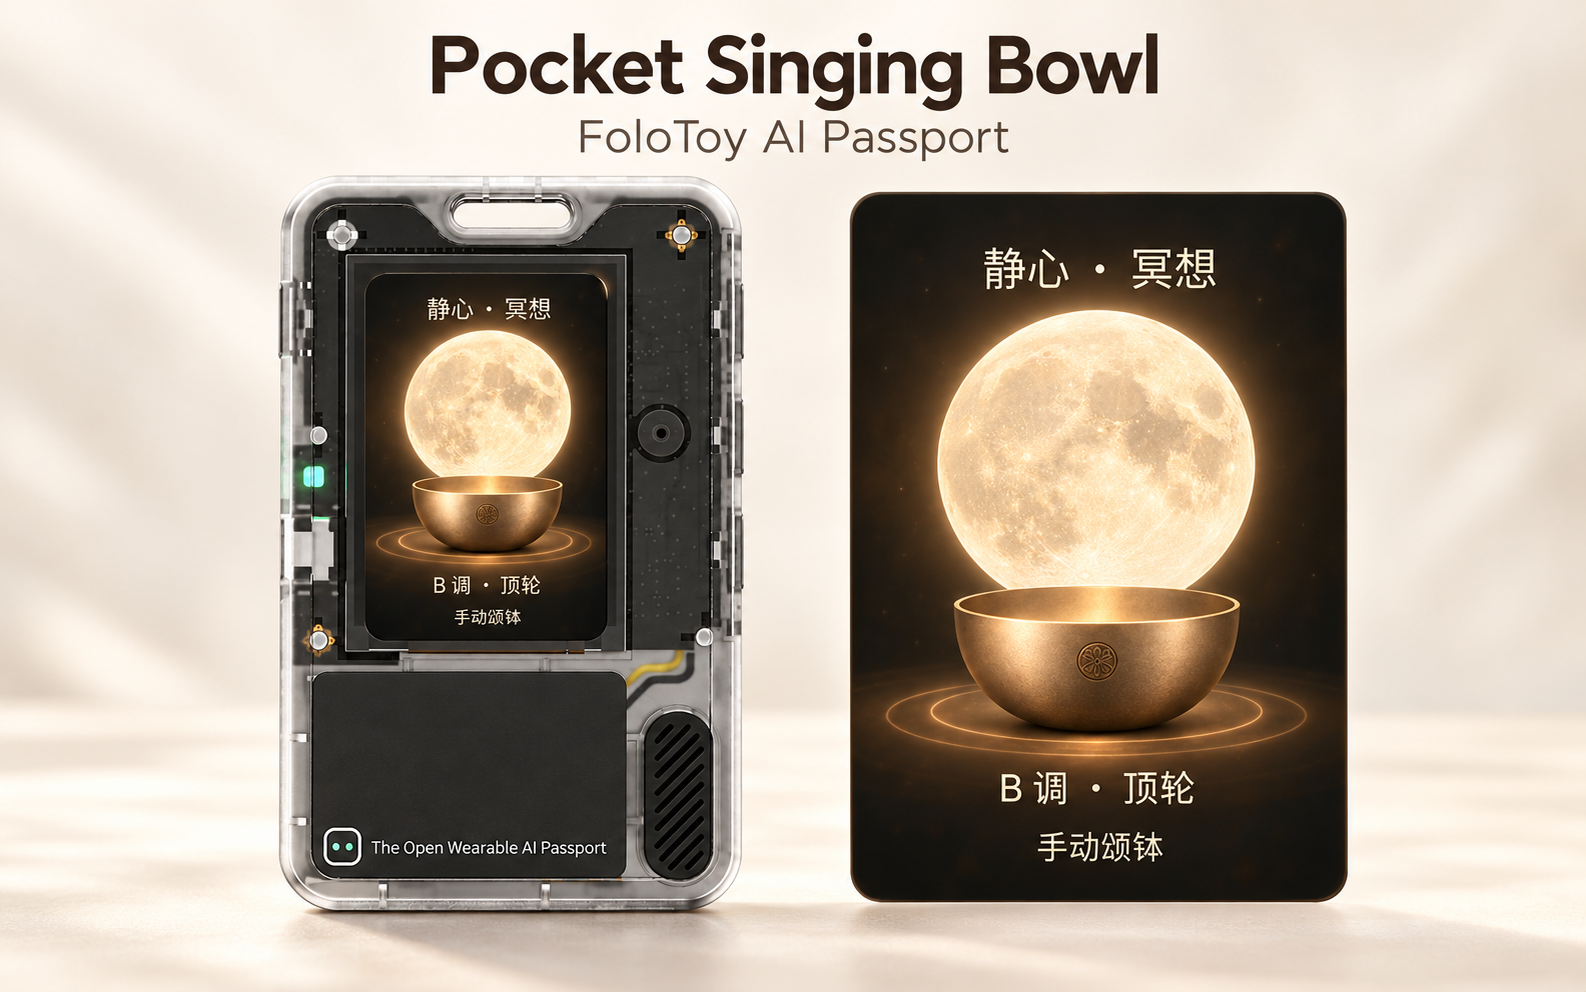
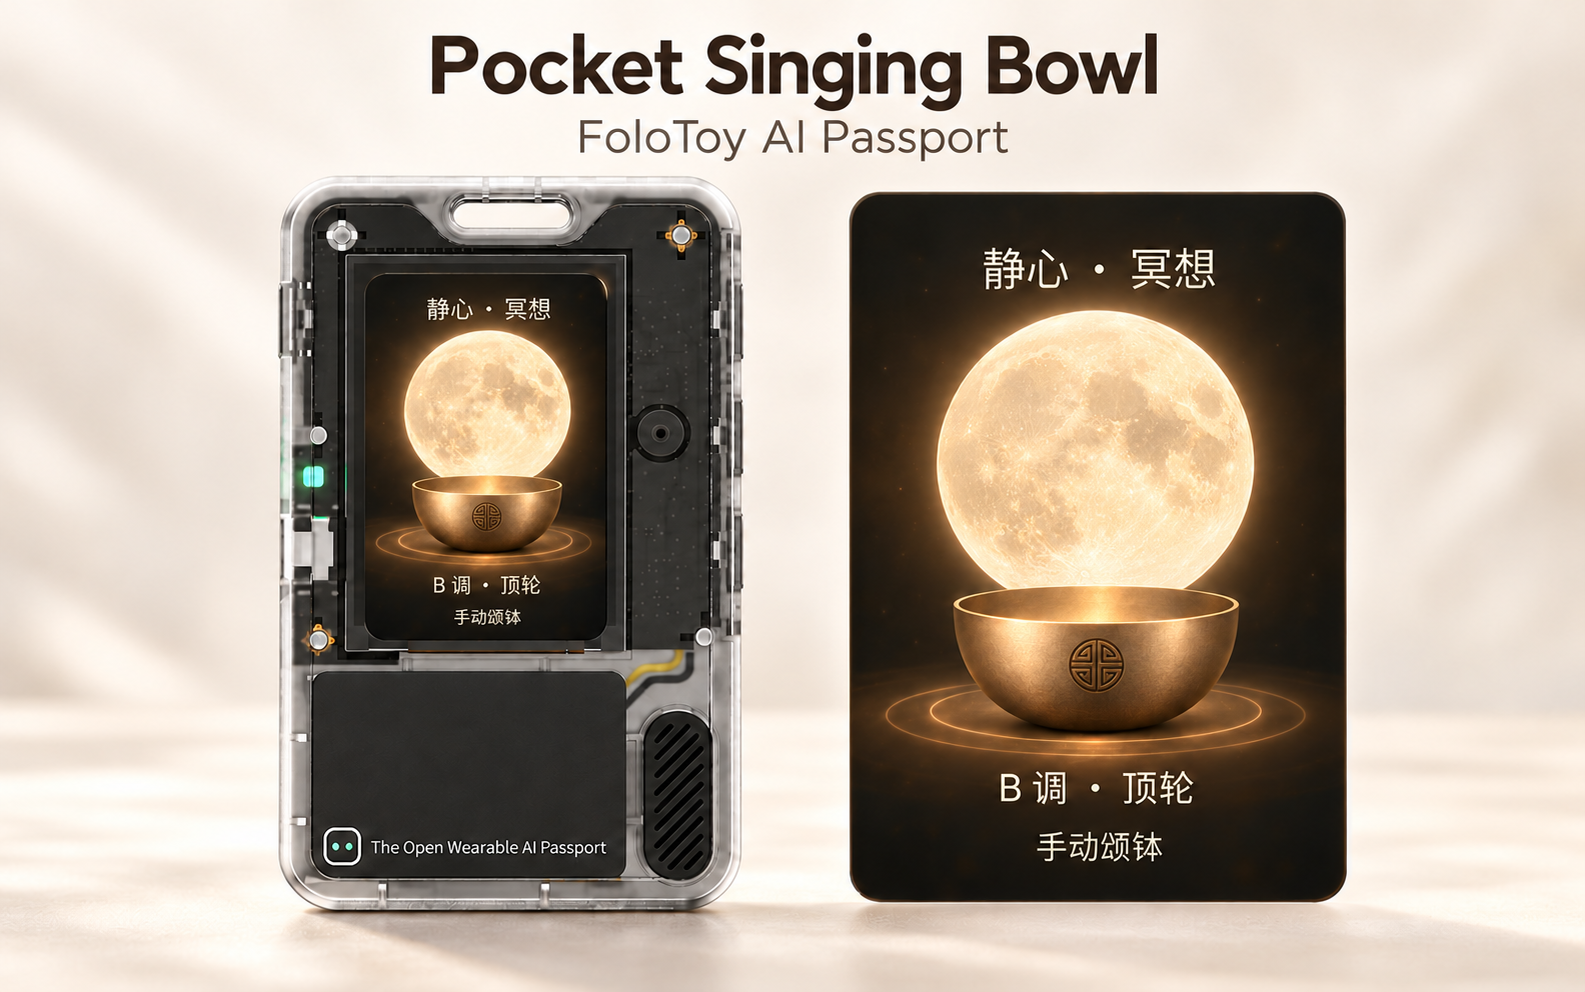
docs: add header badges, restore bowl emblem and explain chakra themes

diff --git a/README.md b/README.md
@@ -1,10 +1,18 @@
 English | [简体中文](docs/i18n/zh-CN/README.md)
 
-# Pocket Singing Bowl
+<h1 align="center">Pocket Singing Bowl</h1>
 
-**A little moon, a golden bowl, and a quiet moment in your pocket.**
+<p align="center">A little moon. A golden bowl. A quiet moment in your pocket.</p>
 
-An offline singing-bowl experience for [FoloToy AI Passport](https://github.com/FoloToy/ai-passport), inspired by Himalayan singing bowls from Nepal. It brings seven original synthesized tones into a simple, button-operated companion for everyday relaxation, focus, and meditation.
+<p align="center">
+  <a href="https://github.com/kyle-zheng/pocket-singing-bowl/releases/tag/v0.1.8"><img src="assets/badges/version.svg" alt="Version: v0.1.8"></a>
+  <a href="https://github.com/kyle-zheng/pocket-singing-bowl/blob/main/docs/USER_GUIDE.md"><img src="assets/badges/platform.svg" alt="Platform: FoloToy AI Passport"></a>
+  <a href="https://github.com/kyle-zheng/pocket-singing-bowl/blob/main/docs/USER_GUIDE.md"><img src="assets/badges/sound.svg" alt="Sound: 7 tones"></a>
+  <a href="https://github.com/kyle-zheng/pocket-singing-bowl/blob/main/docs/USER_GUIDE.md"><img src="assets/badges/mode.svg" alt="Mode: Offline"></a>
+  <a href="https://github.com/kyle-zheng/pocket-singing-bowl/blob/main/LICENSE"><img src="assets/badges/license.svg" alt="License: MIT"></a>
+</p>
+
+An offline singing-bowl experience for [FoloToy AI Passport](https://github.com/FoloToy/ai-passport), inspired by Himalayan singing bowls from Nepal. I paired seven original synthesized tones with the seven chakras, creating selectable listening themes for everyday relaxation, focus, and meditation. Simple button controls make it easy to start listening.
 
 <p align="center"><img src="assets/images/pocket-singing-bowl-device-preview.png" alt="Pocket Singing Bowl shown on FoloToy AI Passport, with a closer view of its full-moon interface" width="900"></p>
 
@@ -23,7 +31,21 @@ An offline singing-bowl experience for [FoloToy AI Passport](https://github.com/
 - Optional sleep after ten idle minutes, with a gentle screen fade; disabled by default.
 - Works entirely offline and remembers your settings.
 
-The current firmware interface is in Simplified Chinese. Project documentation defaults to English, with a Simplified Chinese translation available. The artwork shown above is AI-generated; its circular bowl mark is illustrative, not a verified official logo or endorsement. The sounds are original synthesized timbres rather than recordings of physical bowls. Theme and chakra names describe the design; they do not claim medical effects.
+The current firmware interface is in Simplified Chinese. Project documentation defaults to English, with a Simplified Chinese translation available. The artwork shown above is AI-generated; the bowls retain the circular full-moon emblem used in my original design. The sounds are original synthesized timbres rather than recordings of physical bowls. Theme and chakra names describe the design; they do not claim medical effects.
+
+## Seven notes, seven chakras
+
+For Pocket Singing Bowl, I use the following note-to-chakra mapping, with a listening theme for each note:
+
+| Note | Chakra | Listening theme |
+| --- | --- | --- |
+| C | Root | Grounding & Relaxation |
+| D | Sacral | Feeling & Flow |
+| E | Solar plexus | Confidence & Action |
+| F | Heart | Acceptance & Care |
+| G | Throat | Expression & Listening |
+| A | Third eye | Focus & Awareness |
+| B | Crown | Stillness & Meditation |
 
 ## Start listening
 
@@ -62,7 +84,7 @@ Saved preferences take precedence on an ordinary restart. A full merged-image re
 
 ## Development status
 
-Version 0.1.8 has been built, checked, and flashed to the device during development. It changes the defaults to B/crown and 50% volume while retaining the v0.1.7 audio tuning. The creator reported that the previous tuning eliminated the crackling in their listening test. This is practical listening feedback, not an exhaustive acoustic or battery-life measurement.
+I have flashed v0.1.8 to FoloToy AI Passport and tried it myself. It starts with B/crown at 50% volume and keeps the earlier sound and mixing improvements. After the tuning, I no longer hear the crackling from my earlier listening sessions.
 
 ## Credits
 

diff --git a/docs/i18n/zh-CN/README.md b/docs/i18n/zh-CN/README.md
@@ -1,10 +1,18 @@
 [English](../../../README.md) | 简体中文
 
-# 口袋颂钵
+<h1 align="center">口袋颂钵</h1>
 
-**一轮满月，一只金色的钵，把片刻宁静放进口袋。**
+<p align="center">一轮满月，一只金色的钵，把片刻宁静放进口袋。</p>
 
-口袋颂钵（Pocket Singing Bowl）是为 [FoloToy AI Passport](https://github.com/FoloToy/ai-passport) 制作的离线颂钵应用，灵感来自尼泊尔喜马拉雅颂钵。七种原创合成音调，搭配简单的按键操作，为日常放松、专注和冥想提供一个随身的小入口。
+<p align="center">
+  <a href="https://github.com/kyle-zheng/pocket-singing-bowl/releases/tag/v0.1.8"><img src="../../../assets/badges/version.svg" alt="Version: v0.1.8"></a>
+  <a href="https://github.com/kyle-zheng/pocket-singing-bowl/blob/main/docs/USER_GUIDE.md"><img src="../../../assets/badges/platform.svg" alt="Platform: FoloToy AI Passport"></a>
+  <a href="https://github.com/kyle-zheng/pocket-singing-bowl/blob/main/docs/USER_GUIDE.md"><img src="../../../assets/badges/sound.svg" alt="Sound: 7 tones"></a>
+  <a href="https://github.com/kyle-zheng/pocket-singing-bowl/blob/main/docs/USER_GUIDE.md"><img src="../../../assets/badges/mode.svg" alt="Mode: Offline"></a>
+  <a href="https://github.com/kyle-zheng/pocket-singing-bowl/blob/main/LICENSE"><img src="../../../assets/badges/license.svg" alt="License: MIT"></a>
+</p>
+
+口袋颂钵（Pocket Singing Bowl）是为 [FoloToy AI Passport](https://github.com/FoloToy/ai-passport) 制作的离线颂钵应用，灵感来自尼泊尔喜马拉雅颂钵。我将七种原创合成音调对应七脉轮，做成七个可切换的聆听主题。搭配简单的按键操作，为日常放松、专注和冥想提供一个随身的小入口。
 
 <p align="center"><img src="../../../assets/images/pocket-singing-bowl-device-preview.png" alt="FoloToy AI Passport 机身内展示口袋颂钵界面，旁边展示满月界面细节" width="900"></p>
 
@@ -23,7 +31,21 @@
 - 可选开启闲置十分钟后自动休眠，并以屏幕渐暗过渡；默认关闭。
 - 全程离线，设置会保存。
 
-当前设备界面为简体中文；项目文档默认英文，并提供简体中文入口。上图为 AI 生成的示意图，钵面圆形图案不代表已核实的官方标志或品牌背书。声音为原创合成音色，并非实体颂钵录音；主题和脉轮名称用于组织聆听体验，不宣称医学疗效。
+当前设备界面为简体中文；项目文档默认英文，并提供简体中文入口。上图为 AI 生成的示意图，钵面保留最初设计采用的满月钵圆形图案。声音为原创合成音色，并非实体颂钵录音；主题和脉轮名称用于组织聆听体验，不宣称医学疗效。
+
+## 七种音调与七脉轮
+
+我在口袋颂钵中采用以下对应关系，每个音调都有一个聆听主题：
+
+| 音调 | 对应脉轮 | 聆听主题 |
+| --- | --- | --- |
+| C 调 | 海底轮 | 安定 · 放松 |
+| D 调 | 脐轮 | 感受 · 流动 |
+| E 调 | 太阳轮 | 自信 · 行动 |
+| F 调 | 心轮 | 接纳 · 关怀 |
+| G 调 | 喉轮 | 表达 · 倾听 |
+| A 调 | 眉心轮 | 专注 · 觉察 |
+| B 调 | 顶轮 | 静心 · 冥想 |
 
 ## 开始聆听
 
@@ -62,7 +84,7 @@
 
 ## 开发状态
 
-v0.1.8 已在开发过程中完成编译、校验和设备刷写。它将首次使用的默认音调改为 B 调顶轮、默认音量改为 50%，并保留 v0.1.7 的音频优化。创作者反馈，此前的调音已消除其试听中的爆鸣杂音；这属于实际试听反馈，不等同于完整的声学或续航测量。
+我已经在 FoloToy AI Passport 上刷入并试听了 v0.1.8。这版默认使用 B 调顶轮、50% 音量，并保留此前的音色与混音优化；调音后，我在试听中已听不到之前的爆鸣杂音。
 
 ## 致谢
 

diff --git a/docs/ASSETS.md b/docs/ASSETS.md
@@ -10,13 +10,13 @@ Dependency sources and exact resolved versions are recorded in `dependencies.loc
 
 ## Artwork
 
-`assets/images/moon-bowl-source.png` was generated with OpenAI image generation on October 17, 2026, from the creator's approved moon-and-golden-bowl concept. The circular bowl mark is illustrative and has not been verified as an official logo. No brand endorsement is claimed.
+`assets/images/moon-bowl-source.png` was generated with OpenAI image generation on October 17, 2026, from my moon-and-golden-bowl concept. It uses the circular, four-quadrant full-moon bowl emblem from my original design; it does not imply a brand affiliation.
 
 `moon-bowl-240.png` and `moon_background.c` are generated 240×320 RGB565 derivatives used on the device. The embedded image occupies 153,600 bytes. No third-party photograph is used in this artwork.
 
 ## Device illustration
 
-`assets/images/pocket-singing-bowl-device-preview.png` is a finished AI-generated README illustration combining the appearance of FoloToy AI Passport with the Pocket Singing Bowl interface. It is based on the [simulator body reference](https://apsimulator.folotoy.cn/assets/ai-passport-shell-reference.png) and a native rendering of the current B/crown screen. The full-device presentation was informed by the [PassportSim example](https://github.com/BlackHole1/passportsim). It is an illustration, not a photograph or a captured hardware session. Created with OpenAI image generation on October 19, 2026.
+`assets/images/pocket-singing-bowl-device-preview.png` is a finished AI-generated README illustration combining the appearance of FoloToy AI Passport with the Pocket Singing Bowl interface. It is based on the [simulator body reference](https://apsimulator.folotoy.cn/assets/ai-passport-shell-reference.png) and a native rendering of the current B/crown screen. The full-device presentation was informed by the [PassportSim example](https://github.com/BlackHole1/passportsim). It is an illustration, not a photograph or a captured hardware session. Created with OpenAI image generation on October 19, 2026. The two bowl emblems were subsequently corrected to match the geometric four-quadrant mark in the original artwork, replacing an unintended floral motif.
 
 ## Sound
 

diff --git a/docs/i18n/zh-CN/ASSETS.md b/docs/i18n/zh-CN/ASSETS.md
@@ -10,13 +10,13 @@
 
 ## 图片
 
-`assets/images/moon-bowl-source.png` 根据创作者确认的满月与金色颂钵概念，于 2026 年 10 月 17 日使用 OpenAI 图像生成工具创作。钵面圆形图案为示意，未核实为官方标志，也不代表品牌背书。
+`assets/images/moon-bowl-source.png` 根据我的满月与金色颂钵设计，于 2026 年 10 月 17 日使用 OpenAI 图像生成工具创作。钵面沿用最初设计中的四分对称满月钵圆形图案，不代表品牌关联。
 
 `moon-bowl-240.png` 和 `moon_background.c` 是设备使用的 240×320 RGB565 衍生资源，嵌入图片占用 153,600 字节。该作品未使用第三方摄影照片。
 
 ## 设备示意图
 
-`assets/images/pocket-singing-bowl-device-preview.png` 为完整的 AI 生成首页示意图，将 FoloToy AI Passport 的机身外观与口袋颂钵界面结合。参考了[模拟器机身素材](https://apsimulator.folotoy.cn/assets/ai-passport-shell-reference.png)和当前 B 调顶轮页面的原生渲染；完整机身的展示方式参考 [PassportSim 项目](https://github.com/BlackHole1/passportsim)。该图是示意图，不是照片或实机运行截图，于 2026 年 10 月 19 日使用 OpenAI 图像生成工具创作。
+`assets/images/pocket-singing-bowl-device-preview.png` 为完整的 AI 生成首页示意图，将 FoloToy AI Passport 的机身外观与口袋颂钵界面结合。参考了[模拟器机身素材](https://apsimulator.folotoy.cn/assets/ai-passport-shell-reference.png)和当前 B 调顶轮页面的原生渲染；完整机身的展示方式参考 [PassportSim 项目](https://github.com/BlackHole1/passportsim)。该图是示意图，不是照片或实机运行截图，于 2026 年 10 月 19 日使用 OpenAI 图像生成工具创作，后将两只钵上误生成的花纹修正为原始设计中的四分对称圆形图案。
 
 ## 声音
 

diff --git a/docs/RELEASE_NOTES.md b/docs/RELEASE_NOTES.md
@@ -23,6 +23,6 @@ The packaged full image is the previously built and flashed v0.1.8 image. Its SH
[1 lines of base64/hex data omitted]
 ```
 
-The original development validation passed the firmware build, host checks, merged-image verification, and flash verification. Startup logs confirmed B/crown and 50% volume. The creator reported that the preceding v0.1.7 tuning eliminated the crackling in their listening test. Exhaustive acoustic testing and whole-device sleep-current measurements remain unperformed.
+The original development validation passed the firmware build, host checks, merged-image verification, and flash verification. Startup logs confirmed B/crown and 50% volume. After the v0.1.7 tuning, I no longer heard the earlier crackling during my listening tests. I have not carried out exhaustive acoustic or whole-device sleep-current measurements.
 
 This GitHub publication organizes source files, bilingual documentation, and downloads; it does not introduce a new firmware version or modify the v0.1.8 runtime.

diff --git a/AGENTS.md b/AGENTS.md
@@ -4,6 +4,7 @@ English | [简体中文](docs/i18n/zh-CN/AGENTS.md)
 
 This repository publishes Pocket Singing Bowl v0.1.8 for FoloToy AI Passport.
 
+- Write personal development and listening experiences in the first person; do not refer to the project owner as "the creator" or "the author". Keep the seven-note/chakra mapping consistent with the implemented themes.
 - Use English at default documentation paths and for repository metadata, commit messages, and release titles. Maintain Simplified Chinese translations under `docs/i18n/zh-CN/`, with reciprocal language links. Keep both versions factually aligned. Existing Simplified Chinese device labels are part of the current firmware interface.
 - Use the complete hardware name **FoloToy AI Passport** in reader-facing prose. Preserve existing technical identifiers and build filenames.
 - Keep hardware interfaces in `components/bsp/` and application behavior in `main/moon_*`.

diff --git a/docs/i18n/zh-CN/RELEASE_NOTES.md b/docs/i18n/zh-CN/RELEASE_NOTES.md
@@ -23,6 +23,6 @@
[1 lines of base64/hex data omitted]
 ```
 
-开发过程中已通过固件构建、主机测试、合并镜像校验和刷写校验；启动日志确认 B 调顶轮、50% 音量。创作者反馈，v0.1.7 调音已消除其试听中的爆鸣杂音；完整声学测试与整机休眠电流测量仍未完成。
+开发过程中已通过固件构建、主机测试、合并镜像校验和刷写校验；启动日志确认 B 调顶轮、50% 音量。v0.1.7 调音后，我在试听中已听不到之前的爆鸣杂音。我尚未做完整声学测试或整机休眠电流测量。
 
 本次 GitHub 整理提供源码、双语文档与下载资料，不引入新固件版本，也不改变 v0.1.8 的运行行为。

diff --git a/docs/i18n/zh-CN/AGENTS.md b/docs/i18n/zh-CN/AGENTS.md
@@ -4,6 +4,7 @@
 
 本仓库发布适用于 FoloToy AI Passport 的口袋颂钵（Pocket Singing Bowl）v0.1.8。
 
+- 个人开发经历和试听感受采用第一人称，不将项目所有者称为“创作者”或“作者”。七音调与七脉轮的对应关系须与实际主题一致。
 - 默认文档路径、仓库简介、提交信息和版本标题使用英文。简体中文翻译位于 `docs/i18n/zh-CN/`，两种语言互设入口，并保持事实一致。现有设备界面为简体中文。
 - 面向读者的设备名称统一使用 **FoloToy AI Passport** 全称；现有代码标识与构建文件名保持兼容。
 - 硬件接口放在 `components/bsp/`，应用行为放在 `main/moon_*`。
